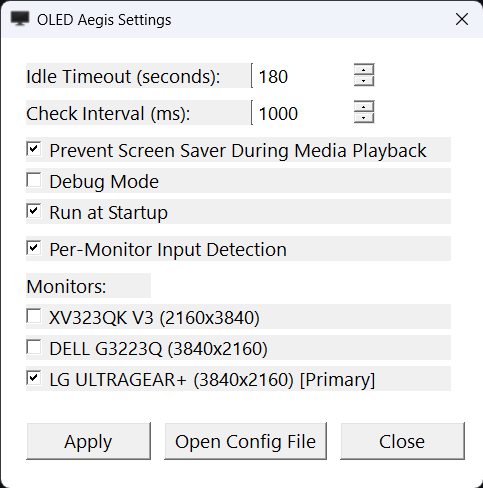
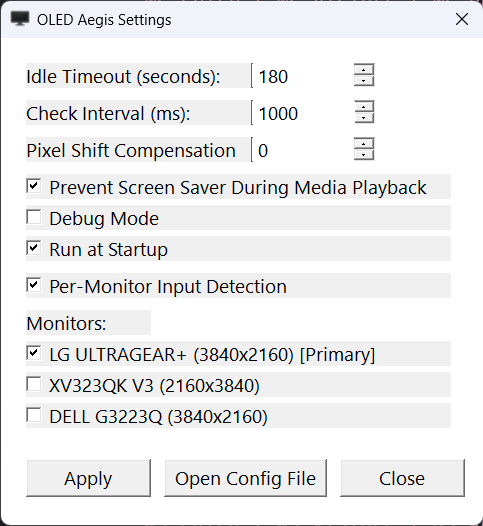
Add pixel shift compensation setting to prevent desktop edge exposure
Some QD-OLED panels (e.g. Alienware) implement pixel shift as a burn-in
reduction feature, which can expose a thin strip of the desktop behind
the screen saver window.

Adds a configurable "Pixel Shift Compensation" setting (0–32px, default
0/disabled) that expands the screen saver window beyond the monitor's
reported bounds on all four sides, ensuring the black window fully
covers the panel regardless of any hardware pixel offset.

Issue: #1

diff --git a/src/oled_aegis.c b/src/oled_aegis.c
@@ -33,6 +33,7 @@
 #define IDC_CLOSE_BTN           1007
 #define IDC_INTERVAL_EDIT       1008
 #define IDC_PERMONITOR_CHECK    1009
+#define IDC_PIXELSHIFT_EDIT     1010
 #define IDC_MONITOR_BASE        2000  // Monitor checkboxes: IDC_MONITOR_BASE + index
 
 // Tray context menu command IDs
@@ -106,6 +107,7 @@ typedef struct {
     int startupEnabled;
     int debugMode;
     int perMonitorInputDetection;
+    int pixelShiftCompensation;
 } Config;
 
 typedef struct {
@@ -549,6 +551,8 @@ void LoadConfig() {
                     g_app.config.debugMode = atoi(value);
                 } else if (strcmp(key, "perMonitorInputDetection") == 0) {
                     g_app.config.perMonitorInputDetection = atoi(value);
+                } else if (strcmp(key, "pixelShiftCompensation") == 0) {
+                    g_app.config.pixelShiftCompensation = atoi(value);
                 } else if (strncmp(key, "monitorEnabled_", 15) == 0) {
                     const char* identifier = key + 15;
                     hadMonitorConfig = 1;
@@ -612,6 +616,7 @@ void SaveConfig() {
         fprintf(f, "startupEnabled=%d\n", g_app.config.startupEnabled);
         fprintf(f, "debugMode=%d\n", g_app.config.debugMode);
         fprintf(f, "perMonitorInputDetection=%d\n", g_app.config.perMonitorInputDetection);
+        fprintf(f, "pixelShiftCompensation=%d\n", g_app.config.pixelShiftCompensation);
         // Save monitor settings using persistent device path as key, with comment showing friendly name
         for (int i = 0; i < g_monitorCount; i++) {
             fprintf(f, "monitorEnabled_%s=%d ; %s\n",
@@ -915,18 +920,31 @@ void ShowScreenSaverOnMonitor(int monitorIndex, int isManual) {
     }
 
     if (g_monitorStates[monitorIndex].hScreenSaverWnd) {
+        // Reposition and resize in case the pixel shift compensation setting changed since the
+        // window was last created.
+        int pad = g_app.config.pixelShiftCompensation;
+        SetWindowPos(g_monitorStates[monitorIndex].hScreenSaverWnd, HWND_TOPMOST,
+                     g_monitors[monitorIndex].rect.left   - pad,
+                     g_monitors[monitorIndex].rect.top    - pad,
+                     g_monitors[monitorIndex].rect.right  - g_monitors[monitorIndex].rect.left + pad * 2,
+                     g_monitors[monitorIndex].rect.bottom - g_monitors[monitorIndex].rect.top  + pad * 2,
+                     SWP_NOACTIVATE);
         ShowWindow(g_monitorStates[monitorIndex].hScreenSaverWnd, SW_SHOW);
         UpdateWindow(g_monitorStates[monitorIndex].hScreenSaverWnd);
         g_monitorStates[monitorIndex].screenSaverActive = 1;
         LogMessage("Screen saver window shown on monitor %d (reused)", monitorIndex);
     } else {
+        // Expand the window beyond the monitor's reported bounds by the pixel shift compensation
+        // amount on all four sides. This ensures hardware pixel shift (used by some OLED panels
+        // to reduce burn-in) cannot expose the desktop behind the screen saver window.
+        int pad = g_app.config.pixelShiftCompensation;
         HWND hWnd = CreateWindowExW(WS_EX_TOPMOST | WS_EX_TOOLWINDOW,
                                    L"OLEDAegisScreen", L"",
                                    WS_POPUP,
-                                   g_monitors[monitorIndex].rect.left,
-                                   g_monitors[monitorIndex].rect.top,
-                                   g_monitors[monitorIndex].rect.right - g_monitors[monitorIndex].rect.left,
-                                   g_monitors[monitorIndex].rect.bottom - g_monitors[monitorIndex].rect.top,
+                                   g_monitors[monitorIndex].rect.left   - pad,
+                                   g_monitors[monitorIndex].rect.top    - pad,
+                                   g_monitors[monitorIndex].rect.right  - g_monitors[monitorIndex].rect.left + pad * 2,
+                                   g_monitors[monitorIndex].rect.bottom - g_monitors[monitorIndex].rect.top  + pad * 2,
                                    NULL, NULL, GetModuleHandle(NULL), NULL);
 
         if (hWnd) {
@@ -1190,6 +1208,19 @@ void ShowSettingsDialog() {
         SendMessage(hIntervalUpDown, UDM_SETRANGE, 0, MAKELPARAM(MAX_CHECK_INTERVAL_MS, MIN_CHECK_INTERVAL_MS));
         y += rowHeight + ScaleDPI(5);
 
+        HWND hPixelShiftLabel = CreateWindowA("STATIC", "Pixel Shift Compensation (px):",
+                     WS_CHILD | WS_VISIBLE,
+                     margin, y, labelWidth, controlHeight, g_hSettingsDialog, NULL, hMod, NULL);
+        HWND hPixelShiftEdit = CreateWindowExA(0, "EDIT", "",
+                     WS_CHILD | WS_VISIBLE | WS_BORDER | ES_NUMBER,
+                     margin + labelWidth, y, editWidth, controlHeight,
+                     g_hSettingsDialog, (HMENU)IDC_PIXELSHIFT_EDIT, hMod, NULL);
+        HWND hPixelShiftUpDown = CreateWindowExA(0, UPDOWN_CLASS, "",
+                     WS_CHILD | WS_VISIBLE | UDS_AUTOBUDDY | UDS_SETBUDDYINT | UDS_ALIGNRIGHT | UDS_ARROWKEYS,
+                     0, 0, 0, 0, g_hSettingsDialog, NULL, hMod, hPixelShiftEdit);
+        SendMessage(hPixelShiftUpDown, UDM_SETRANGE, 0, MAKELPARAM(32, 0));
+        y += rowHeight + ScaleDPI(5);
+
         HWND hVideoCheck = CreateWindowA("BUTTON", "Prevent Screen Saver During Media Playback",
                      WS_CHILD | WS_VISIBLE | BS_AUTOCHECKBOX,
                      margin, y, checkboxWidth, controlHeight, g_hSettingsDialog, (HMENU)IDC_MEDIA_CHECK, hMod, NULL);
@@ -1266,6 +1297,9 @@ void ShowSettingsDialog() {
             SendMessageA(hDebugCheck, WM_SETFONT, (WPARAM)g_hSettingsFont, TRUE);
             SendMessageA(hStartupCheck, WM_SETFONT, (WPARAM)g_hSettingsFont, TRUE);
             SendMessageA(hPerMonitorCheck, WM_SETFONT, (WPARAM)g_hSettingsFont, TRUE);
+            SendMessageA(hPixelShiftLabel, WM_SETFONT, (WPARAM)g_hSettingsFont, TRUE);
+            SendMessageA(hPixelShiftEdit, WM_SETFONT, (WPARAM)g_hSettingsFont, TRUE);
+            SendMessageA(hPixelShiftUpDown, WM_SETFONT, (WPARAM)g_hSettingsFont, TRUE);
             SendMessageA(hMonitorsLabel, WM_SETFONT, (WPARAM)g_hSettingsFont, TRUE);
             SendMessageA(hApplyBtn, WM_SETFONT, (WPARAM)g_hSettingsFont, TRUE);
             SendMessageA(hConfigBtn, WM_SETFONT, (WPARAM)g_hSettingsFont, TRUE);
@@ -1285,6 +1319,9 @@ void ShowSettingsDialog() {
                    "Automatically start OLED Aegis when you log into Windows.");
         AddTooltip(g_hSettingsDialog, hPerMonitorCheck,
                    "Track input separately for each monitor. Allows screen saver to activate on unused monitors while you continue using others.");
+        AddTooltip(g_hSettingsDialog, hPixelShiftEdit,
+                   "Expand the screen saver window beyond the monitor bounds by this many pixels on each side. "
+                   "Use 4-8 on QD-OLED panels (e.g. Alienware) to prevent hardware pixel shift from exposing the desktop edge. (0 = disabled)");
 
         // Set initial values
         char buffer[32];
@@ -1298,6 +1335,9 @@ void ShowSettingsDialog() {
         CheckDlgButton(g_hSettingsDialog, IDC_DEBUG_CHECK, g_app.config.debugMode ? BST_CHECKED : BST_UNCHECKED);
         CheckDlgButton(g_hSettingsDialog, IDC_STARTUP_CHECK, g_app.config.startupEnabled ? BST_CHECKED : BST_UNCHECKED);
         CheckDlgButton(g_hSettingsDialog, IDC_PERMONITOR_CHECK, g_app.config.perMonitorInputDetection ? BST_CHECKED : BST_UNCHECKED);
+
+        sprintf_s(buffer, 32, "%d", g_app.config.pixelShiftCompensation);
+        SetDlgItemTextA(g_hSettingsDialog, IDC_PIXELSHIFT_EDIT, buffer);
 
         for (int i = 0; i < g_monitorCount; i++) {
             CheckDlgButton(g_hSettingsDialog, IDC_MONITOR_BASE + i, g_app.config.monitorsEnabled[i] ? BST_CHECKED : BST_UNCHECKED);
@@ -1330,6 +1370,12 @@ void ApplySettings(HWND hWnd) {
     g_app.config.debugMode = IsDlgButtonChecked(hWnd, IDC_DEBUG_CHECK) == BST_CHECKED;
     g_app.config.startupEnabled = IsDlgButtonChecked(hWnd, IDC_STARTUP_CHECK) == BST_CHECKED;
     g_app.config.perMonitorInputDetection = IsDlgButtonChecked(hWnd, IDC_PERMONITOR_CHECK) == BST_CHECKED;
+
+    GetDlgItemTextA(hWnd, IDC_PIXELSHIFT_EDIT, buffer, 32);
+    int newPixelShift = atoi(buffer);
+    if (newPixelShift < 0) newPixelShift = 0;
+    if (newPixelShift > 32) newPixelShift = 32;
+    g_app.config.pixelShiftCompensation = newPixelShift;
 
     for (int i = 0; i < g_monitorCount; i++) {
         int wasEnabled = g_app.config.monitorsEnabled[i];
@@ -1368,13 +1414,14 @@ void ApplySettings(HWND hWnd) {
     SaveConfig();
     UpdateStartupRegistry();
 
-    LogMessage("Settings applied: timeout %ds->%ds, interval %dms->%dms, media %d->%d, debug %d->%d, startup %d->%d, perMonitor %d->%d",
+    LogMessage("Settings applied: timeout %ds->%ds, interval %dms->%dms, media %d->%d, debug %d->%d, startup %d->%d, perMonitor %d->%d, pixelShift %dpx",
              oldTimeout, g_app.config.idleTimeout,
              oldInterval, g_app.config.checkInterval,
              oldMedia, g_app.config.mediaDetectionEnabled,
              oldDebug, g_app.config.debugMode,
              oldStartup, g_app.config.startupEnabled,
-             oldPerMonitor, g_app.config.perMonitorInputDetection);
+             oldPerMonitor, g_app.config.perMonitorInputDetection,
+             g_app.config.pixelShiftCompensation);
 
     if (oldInterval != g_app.config.checkInterval) {
         KillTimer(g_app.hWnd, TIMER_IDLE_CHECK);
